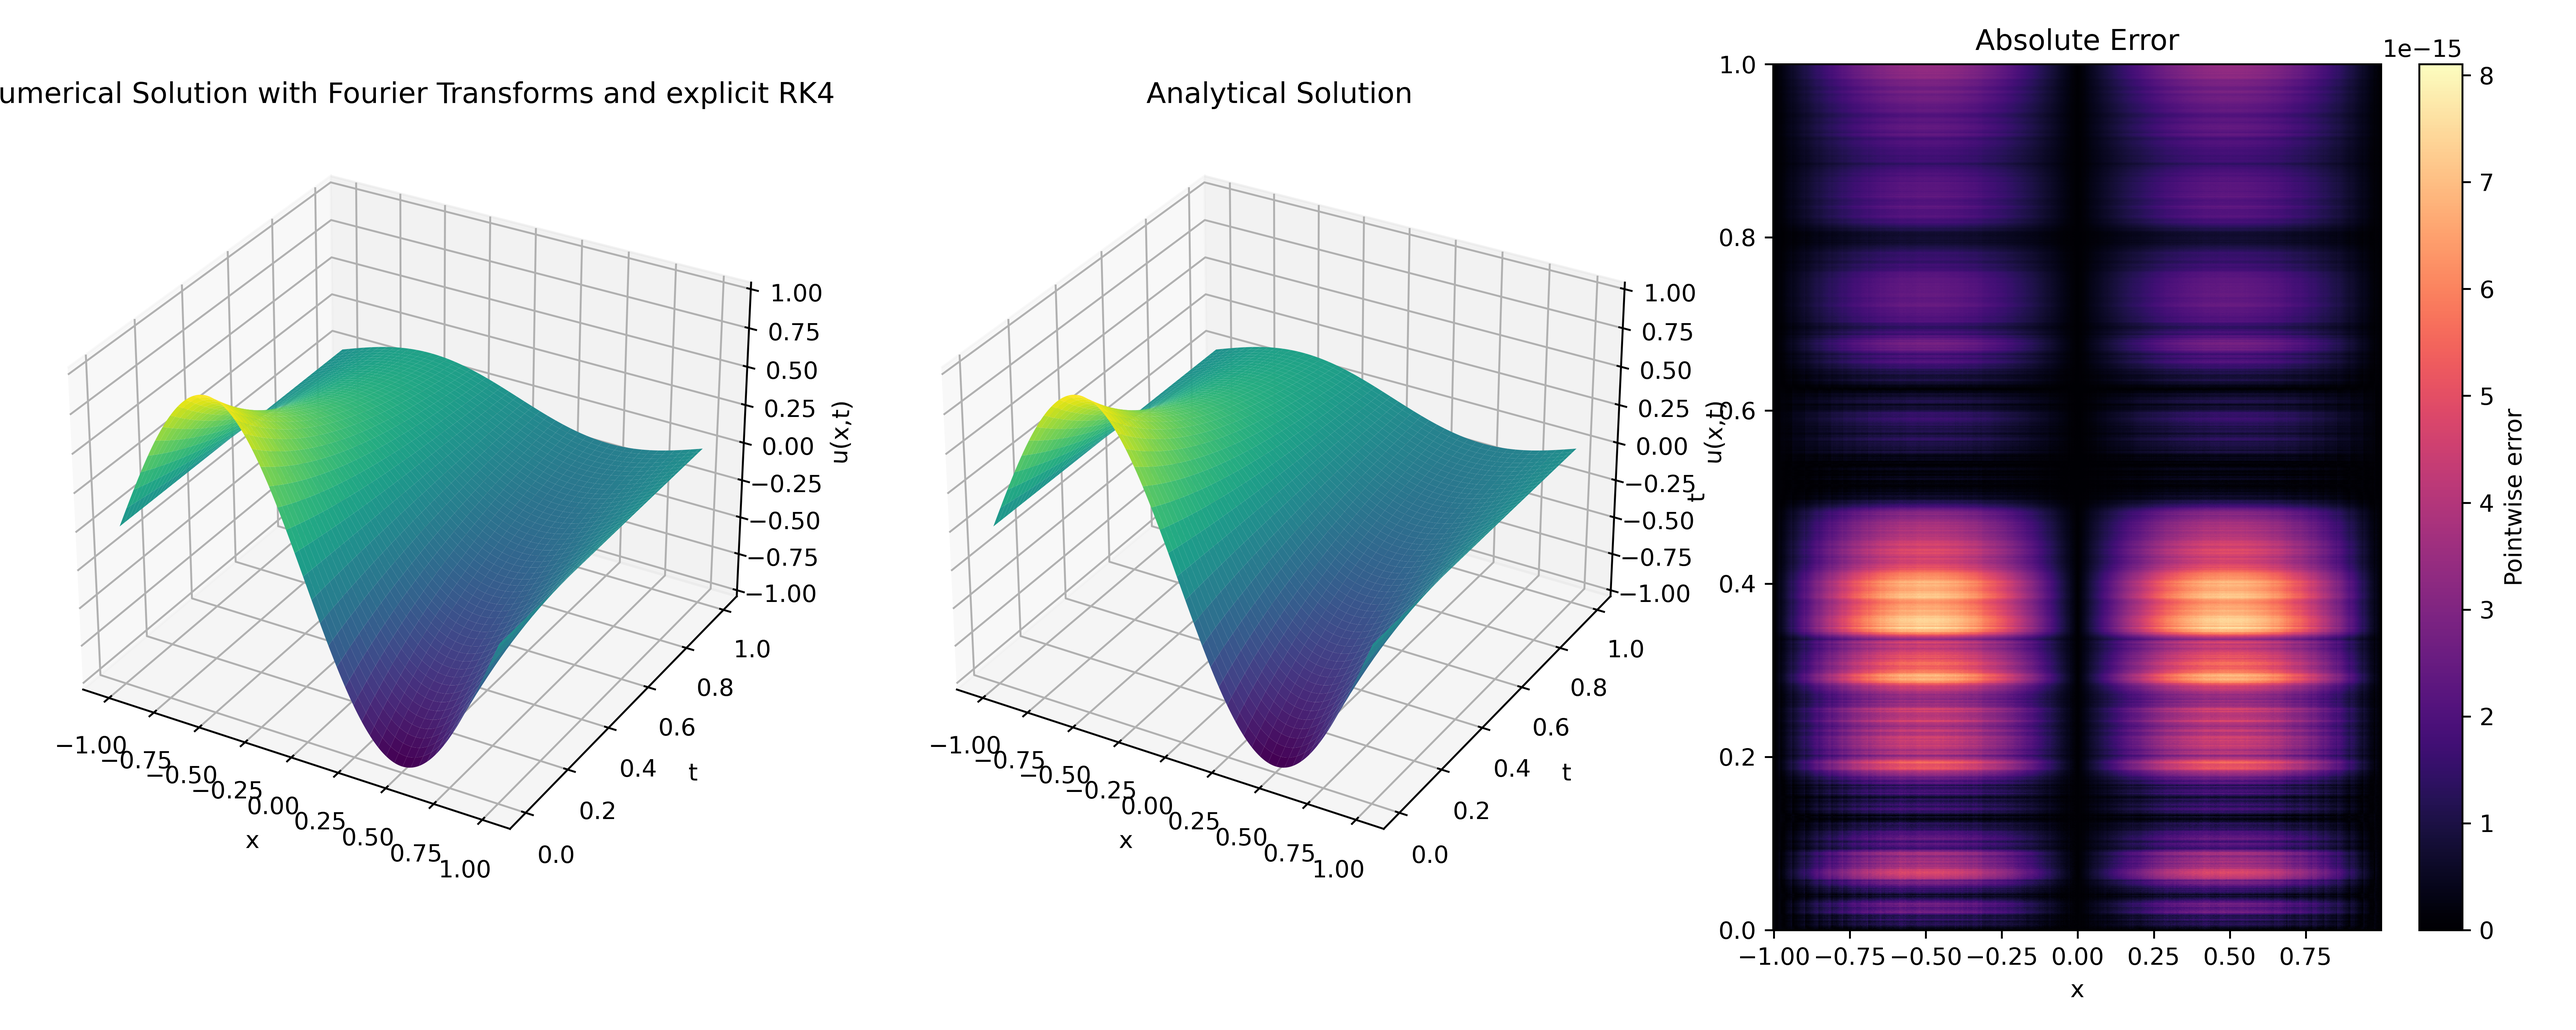
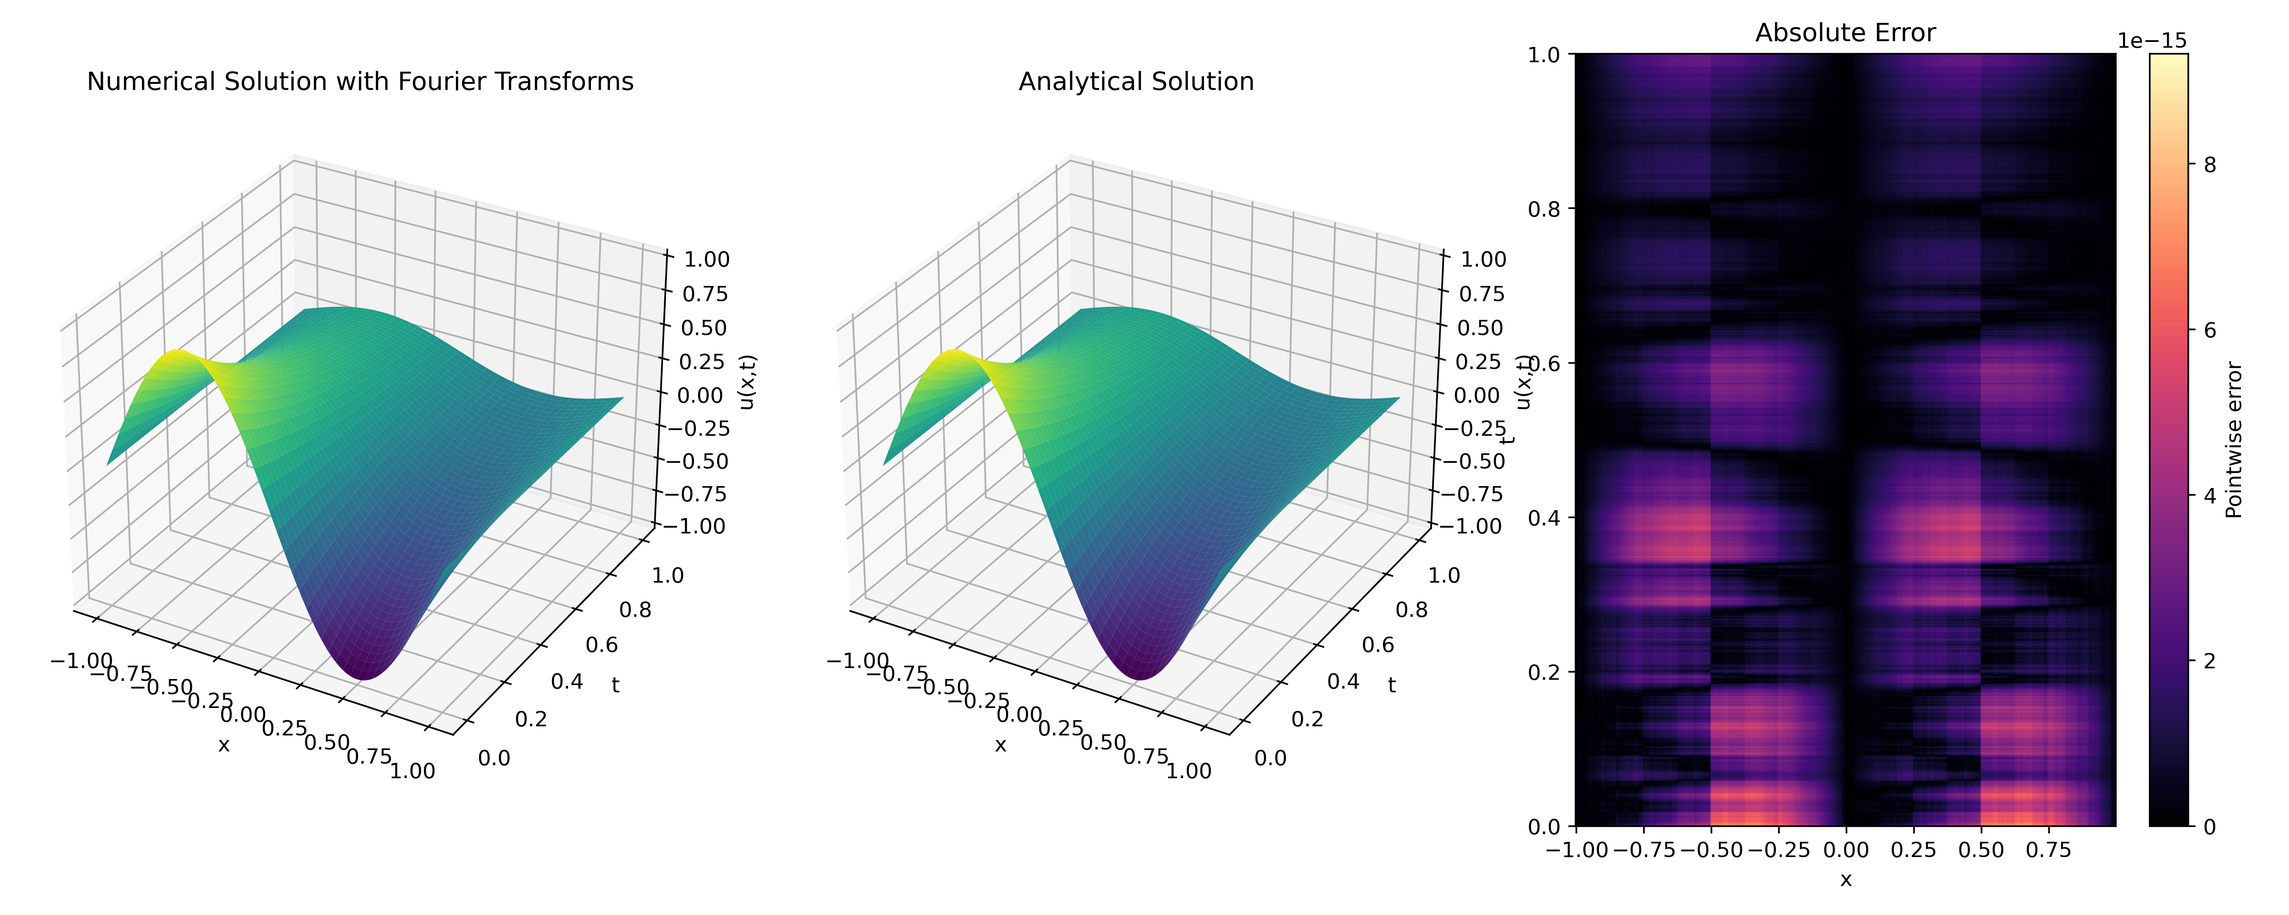
Heat equation solving with RK4

diff --git a/pde/heat/heat-fft.py b/pde/heat/heat-fft.py
@@ -1,6 +1,7 @@
 #%%
 import numpy as np
 import matplotlib.pyplot as plt
+import sigMathFourier
 
 #%%
 # Problem parameters for the Heat equation problem
@@ -51,11 +52,11 @@ def rk4_explicit_step(u_hat, dt):
 
 solutions = np.zeros((num_t + 1, N))
 solutions[0] = initial_condition(x)
-u_hat = np.fft.fft(initial_condition(x))
+u_hat = sigMathFourier.fft_iterative_pow_of_2(initial_condition(x))
 
 for t_index in range(num_t):
     u_hat = rk4_explicit_step(u_hat, dt)
-    solutions[t_index + 1] = np.fft.ifft(u_hat).real
+    solutions[t_index + 1] = np.array(sigMathFourier.inverse_fft_iterative_pow_of_2(u_hat)).real
 
 #%%
 
@@ -98,5 +99,9 @@ ax3.set_title("Absolute Error")
 fig.colorbar(pcm, ax=ax3, label="Pointwise error")
 
 plt.tight_layout()
-plt.savefig("heat-fft.png", dpi=450)
+plt.savefig("heat-fft.png", dpi=400)
 plt.show()
+
+#%%
+print(f"Maximum pointwise error: {np.max(pt_err)}")
+print(f"Mean pointwise error: {np.mean(pt_err)}")
